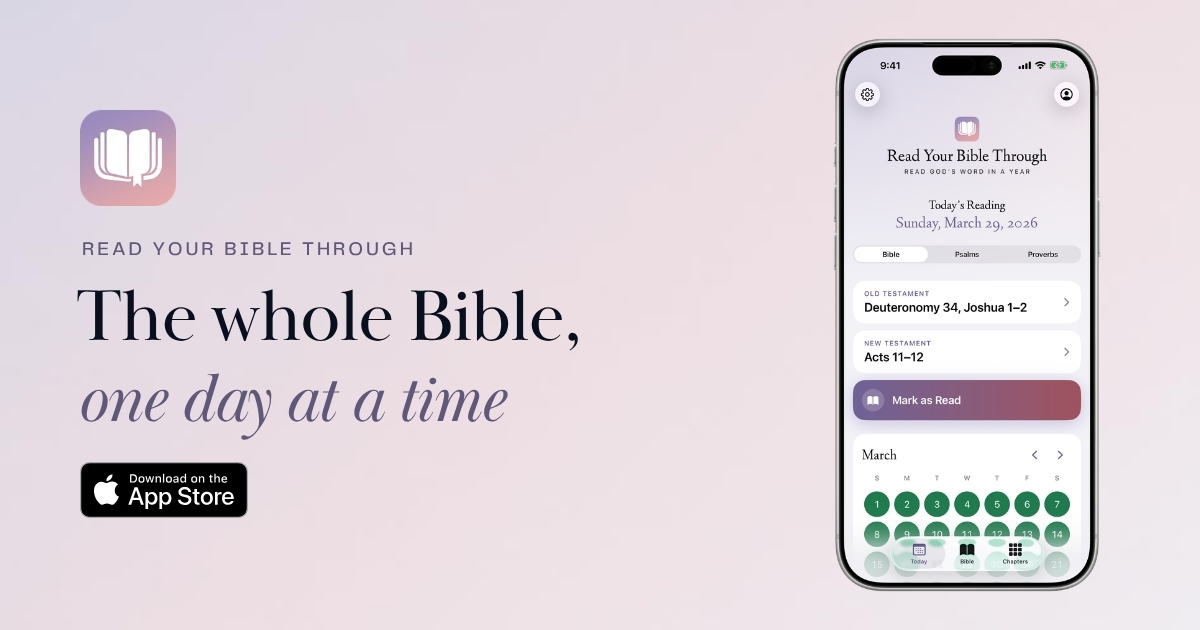
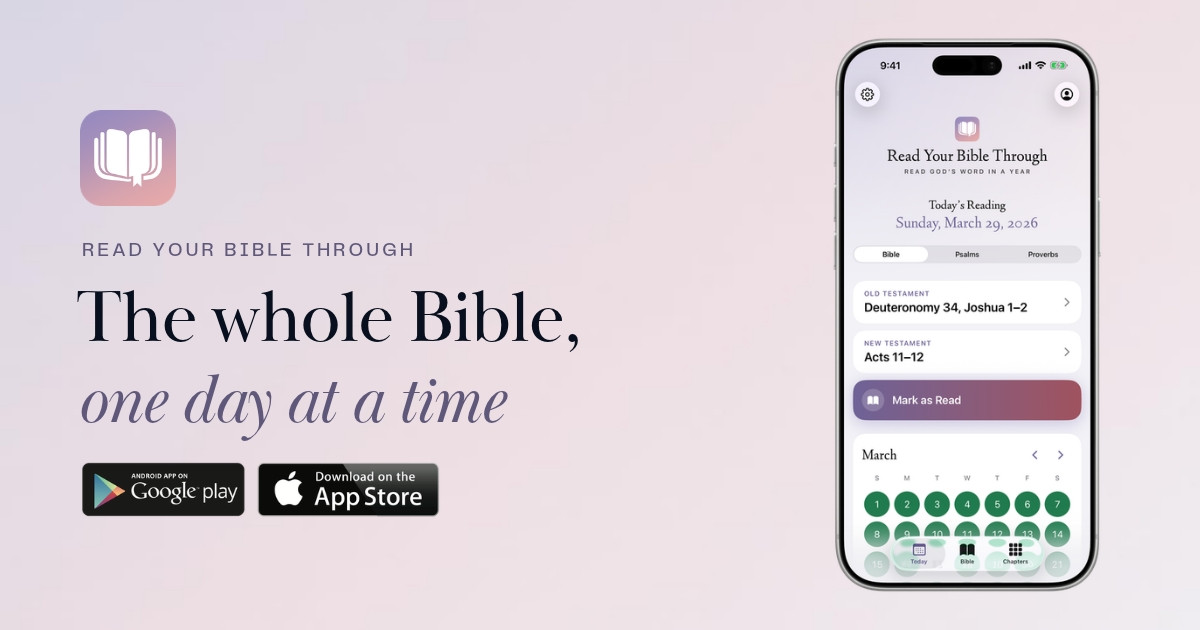
feat(client): share images for the churches and colleges pages, and Play on the site's
Each page had no share image of its own: Next replaces the site's openGraph with a
page's, so a link to /for/churches or /for/colleges showed none. Each now has one,
made in Canva from "RYBT Website - Share Image" - the same icon, type and iPhone,
with the page's own headline ("One church, one reading"; "Every student, the same
chapters") and both store badges. The site's own share image gains the Google Play
badge beside the App Store's, and its alt text says so.

Verified: prettier, oxlint and tsc; next build, whose /for/churches, /for/colleges
and / carry og:image and twitter:image for og-churches.jpg, og-colleges.jpg and
og.jpg, each 1200x630.

diff --git a/client/app/for/AudiencePage.tsx b/client/app/for/AudiencePage.tsx
@@ -1,4 +1,5 @@
 import {APP_PAGE_URL, SHOW_APP} from '@/helpers/links'
+import type {Metadata} from 'next'
 import Link from 'next/link'
 import {notFound} from 'next/navigation'
 import type {ReactNode} from 'react'
@@ -11,6 +12,24 @@ import {DEVICES, Footer, GET_THE_APP, Nav, Phone, StoreBadges} from '../app/part
  * are (locksteptracker.app/for/churches.html): the hero, ideas to run, how it works beside a
  * phone, the questions an organizer asks, and a band at the foot. Each page is its words.
  */
+/**
+ * A page's title and description, and its own share image (`public/images/og-*.jpg`, made
+ * in Canva from "RYBT Website - Share Image"). Next replaces the site's `openGraph` and
+ * `twitter` with a page's own rather than merging them, so the image is named here in full.
+ */
+export const audienceMetadata = (
+  title: string,
+  shareTitle: string,
+  description: string,
+  image: string,
+  alt: string,
+): Metadata => ({
+  title,
+  description,
+  openGraph: {title: shareTitle, description, images: [{url: image, width: 1200, height: 630, alt}]},
+  twitter: {card: 'summary_large_image', title: shareTitle, description, images: [image]},
+})
+
 export type Audience = {
   path: string
   kicker: string

diff --git a/client/app/for/colleges/page.tsx b/client/app/for/colleges/page.tsx
@@ -1,17 +1,19 @@
 import {APP_PAGE_URL} from '@/helpers/links'
-import type {Metadata, Viewport} from 'next'
+import type {Viewport} from 'next'
 import Link from 'next/link'
 
-import AudiencePage, {type Audience} from '../AudiencePage'
+import AudiencePage, {type Audience, audienceMetadata} from '../AudiencePage'
 
 const description =
   'Every student on the same chapters every day, with the King James Version built in and nothing to set up. Free, with no ads.'
 
-export const metadata: Metadata = {
-  title: 'For Colleges',
+export const metadata = audienceMetadata(
+  'For Colleges',
+  'Read Your Bible Through for Christian colleges',
   description,
-  openGraph: {title: 'Read Your Bible Through for Christian colleges', description},
-}
+  '/images/og-colleges.jpg',
+  'Read Your Bible Through for Christian colleges - every student, the same chapters. Today’s reading on an iPhone, and the Google Play and App Store badges.',
+)
 
 export const viewport: Viewport = {themeColor: '#1a1724'}
 

diff --git a/client/app/for/churches/page.tsx b/client/app/for/churches/page.tsx
@@ -1,17 +1,19 @@
 import {APP_PAGE_URL} from '@/helpers/links'
-import type {Metadata, Viewport} from 'next'
+import type {Viewport} from 'next'
 import Link from 'next/link'
 
-import AudiencePage, {type Audience} from '../AudiencePage'
+import AudiencePage, {type Audience, audienceMetadata} from '../AudiencePage'
 
 const description =
   'The whole church on the same chapters every day of the year, with the King James Version built in. Free, with no ads.'
 
-export const metadata: Metadata = {
-  title: 'For Churches',
+export const metadata = audienceMetadata(
+  'For Churches',
+  'Read Your Bible Through for churches',
   description,
-  openGraph: {title: 'Read Your Bible Through for churches', description},
-}
+  '/images/og-churches.jpg',
+  'Read Your Bible Through for churches - one church, one reading. Today’s reading on an iPhone, and the Google Play and App Store badges.',
+)
 
 export const viewport: Viewport = {themeColor: '#1a1724'}
 

diff --git a/client/app/layout.tsx b/client/app/layout.tsx
@@ -47,7 +47,7 @@ export const metadata: Metadata = {
         url: '/images/og.jpg',
         width: 1200,
         height: 630,
-        alt: "Read Your Bible Through - the whole Bible, one day at a time. Today's reading on an iPhone, and the App Store badge.",
+        alt: "Read Your Bible Through - the whole Bible, one day at a time. Today's reading on an iPhone, and the Google Play and App Store badges.",
       },
     ],
     locale: 'en_US',
